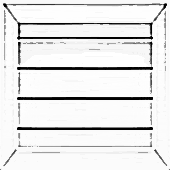
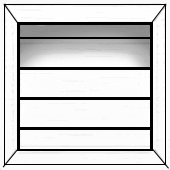
- Block Bild geupdatet - Hintergrund Spielfeld - Herz Anzeige angepasst - Auf CSS Motivanzeige umgestellt

Changed region(s): [[0.0, 0.0, 1.0, 1.0], [0.5, 0.3824, 0.6765, 0.4118], [0.4118, 0.3824, 0.4412, 0.4118]]

diff --git a/StackAttack/StackAttack/web/styles/main.css b/StackAttack/StackAttack/web/styles/main.css
@@ -28,8 +28,9 @@ h1{
   height: 420px;
   position:relative;
   margin: 0 auto;
+  background-image: url(../pics/bg_game.jpg);
   background-position: center bottom;
-  background-size: 200px;
+  background-size: cover;
   border: 1px black solid
 }
 
@@ -61,8 +62,21 @@ h1{
   background-color: white;
 }
 
-.block, .powerupHeart, .player{
-  position: absolute;    
+.block, .powerup_heart, .player{
+  position: absolute;
+  background-size: contain; 
+}
+
+.player{
+  background-image: url(../pics/player.png);
+}
+
+.block {
+  background-image: url(../pics/block.png);
+}
+
+.block .powerup_heart, .powerup_heart {
+  background-image: url(../pics/powerup_heart.png);
 }
 
 /* Style Seite*/
@@ -114,11 +128,11 @@ button:active {
 }
 
 .hon{
-    background-image: url(../pics/powerup_heart_empty.png);
+  background-image: url(../pics/powerup_heart.png);
 }
 
 .hoff{
-    background-image: url(../pics/powerup_heart.png);
+  background-image: url(../pics/powerup_heart_empty.png); 
 }
 
 .right {

diff --git a/StackAttack/StackAttack/lib/src/view.dart b/StackAttack/StackAttack/lib/src/view.dart
@@ -84,10 +84,9 @@ class View{
    * fügt ein HtmlElement zum container hinzu
    */
   void addElement(MovingElement elem){
-   ImageElement div = new ImageElement();
-   div.src = elem.image;
-   div.width = elem.width;
-   div.height = elem.height;
+   DivElement div = new DivElement();
+  /* div.setAttribute("width", elem.width.toString());
+   div.setAttribute("height", elem.height.toString());*/
     div.style
              ..left = (elem.x*BLOCK_SIZE).toString() + "px"
              ..top = (elem.y*BLOCK_SIZE).toString() + "px"     
@@ -104,13 +103,13 @@ class View{
   void updateView(Player p, int level){
     var i = 0;
     _pointView.text = p.points.toString();
-    _lifeView.forEach((h){
+    _lifeView.reversed.forEach((h){
       h.classes..remove("hoff")..remove("hon");
       if (i < p.life){
-       h.classes.add("hoff");
+       h.classes.add("hon");
       }
       else{
-        h.classes.add("hon");
+        h.classes.add("hoff");
       }
       i++;
     });

diff --git a/StackAttack/StackAttack/web/index.html b/StackAttack/StackAttack/web/index.html
@@ -26,11 +26,11 @@
           <div class="left">Level: <span id="levelView">1</span></div>
           <div class="lifeWrap">
             <div id="hwrap">
-              <div class="heart hon"> </div>
-              <div class="heart hon"> </div>
-              <div class="heart hon"> </div>
-              <div class="heart hon"> </div>
-              <div class="heart hon"> </div>
+              <div class="heart hoff"> </div>
+              <div class="heart hoff"> </div>
+              <div class="heart hoff"> </div>
+              <div class="heart hoff"> </div>
+              <div class="heart hoff"> </div>
               <div class="clear"> </div>
            </div> 
           </div>

diff --git a/StackAttack/StackAttack/lib/src/block.dart b/StackAttack/StackAttack/lib/src/block.dart
@@ -14,7 +14,7 @@ class Block extends MovingElement {
   Block(int x, int y, this._color, this._isWalkable, this._isSolid):super(x,y,BLOCK_SIZE, BLOCK_SIZE){ 
     addClass("block");
     addClass(_color);
-    image = PICS_PATH+BLOCK+PICS_TYP;
+   /* image = PICS_PATH+BLOCK+PICS_TYP;*/
   }
   
   bool get isWalkable => _isWalkable;  

diff --git a/StackAttack/StackAttack/lib/src/powerupHeart.dart b/StackAttack/StackAttack/lib/src/powerupHeart.dart
@@ -9,7 +9,7 @@ class PowerupHeart extends Powerup {
    * Konstruktor
    */
   PowerupHeart(int x, int y):super(x,y){    
-    image = PICS_PATH+POWERUP_HEART+PICS_TYP;              
+    addClass("powerup_heart");
   }
   
   void walkThrough(Model m){

diff --git a/StackAttack/StackAttack/lib/src/player.dart b/StackAttack/StackAttack/lib/src/player.dart
@@ -20,7 +20,6 @@ class Player extends MovingElement {
    */
   Player(int x, int y) : super(x, y, 1*BLOCK_SIZE, 2*BLOCK_SIZE){        
     addClass("player");
-    image = PICS_PATH+PLAYER+PICS_TYP;
   }  
     
   int get points => _points;

diff --git a/StackAttack/StackAttack/lib/src/powerup.dart b/StackAttack/StackAttack/lib/src/powerup.dart
@@ -9,7 +9,7 @@ abstract class Powerup extends Block {
    * Konstruktor
    */
   Powerup(int x, int y):super(x,y, NO_COLOR, true, false){    
-    addClass("powerup");
+    /*addClass("powerup");*/
   }
   
   void walkThrough(Model m);
